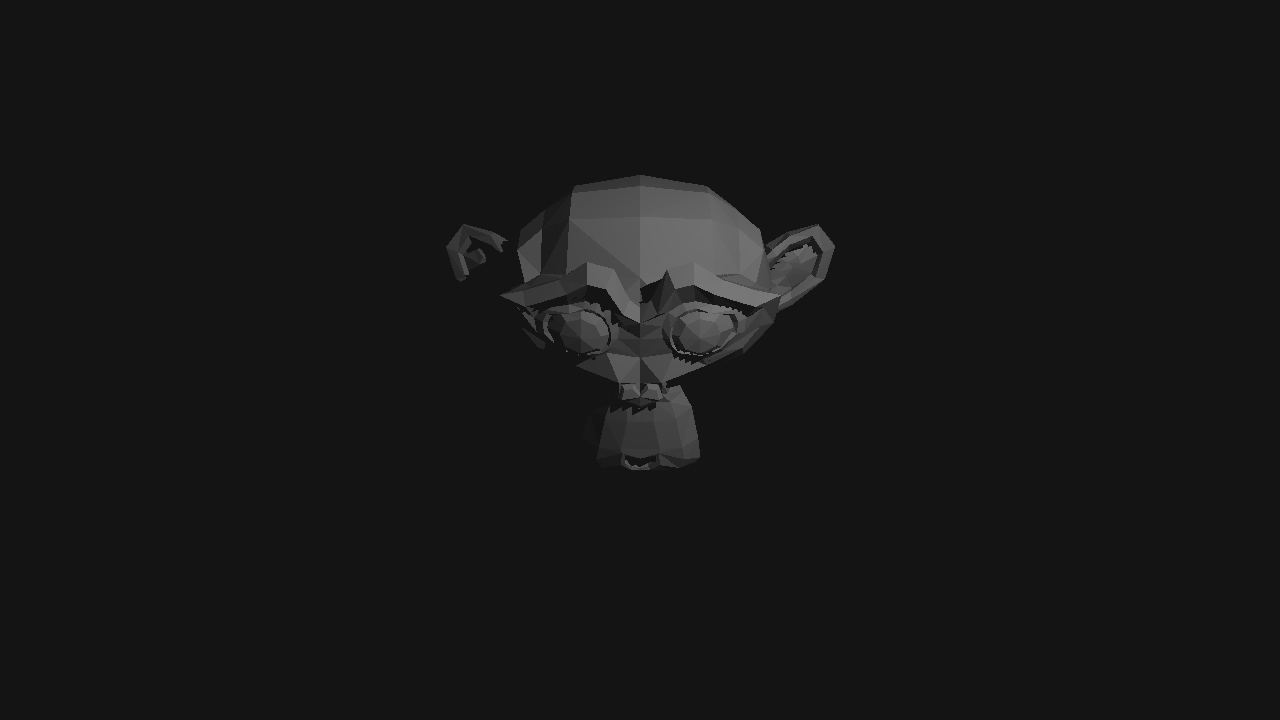
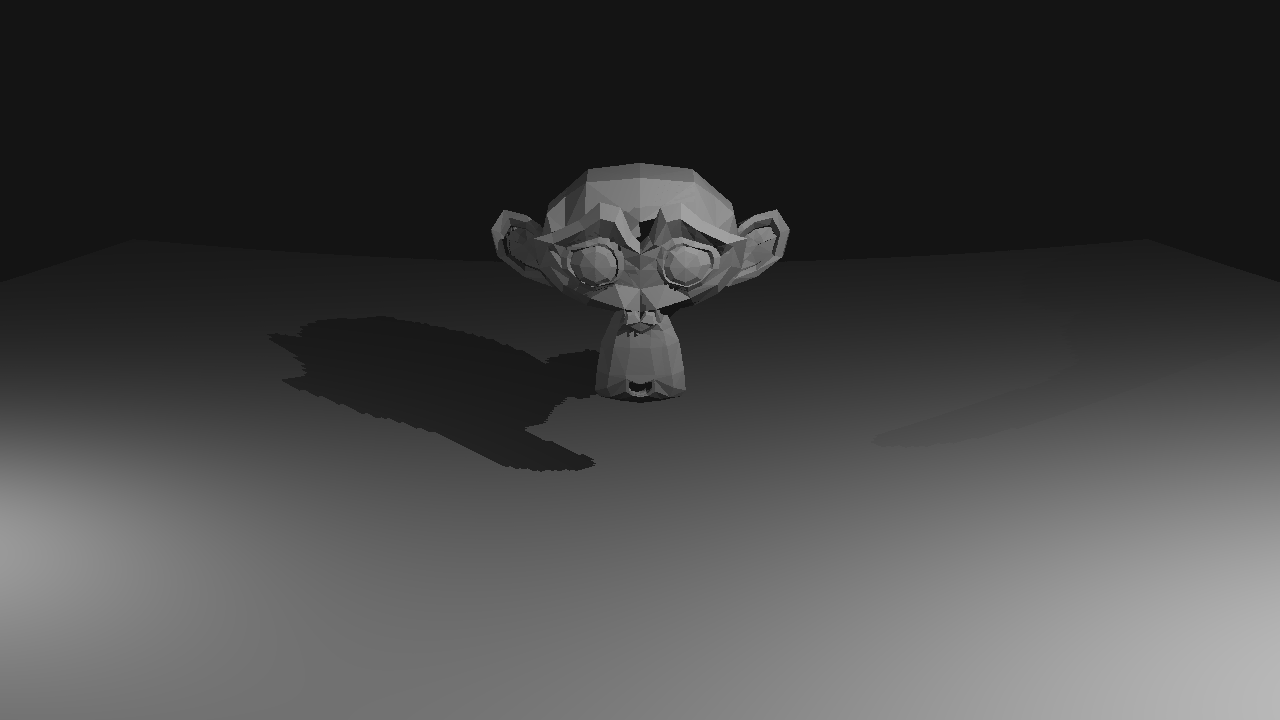
Cooler scene.

diff --git a/tests/scene1.cpp b/tests/scene1.cpp
@@ -24,12 +24,14 @@ using Shadowmap::Vec3;
 
 
 int main() {
-    Shadowmap::Scene scene(0, -8, 4, 0, 0.5, 60);
+    Shadowmap::Scene scene(0, -9, 4, 0, 0.3, 70);
     scene.bg = 20;
 
-    Shadowmap::Mesh m("monkey.stl");
-    scene.objs.push_back(m);
+    scene.objs.push_back(Shadowmap::Mesh(Vec3(0, 0, 2), "monkey.stl"));
+    scene.objs.push_back(Shadowmap::Mesh(Vec3(0, 0, 0), "plane.stl"));
+
     scene.add_light(4, -5, 6, 6000);
+    scene.add_light(-5, -3, 3, 1000);
 
     std::ofstream fp("scene1.img");
     Shadowmap::Image img(1280, 720);
